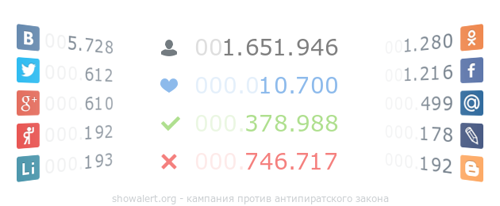
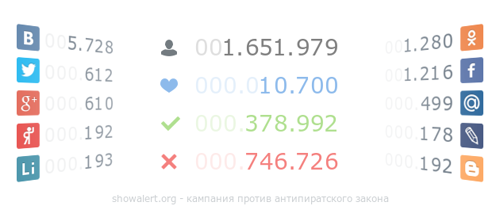
some updates

Changed region(s): [[0.6, 0.7282, 0.69, 0.8447], [0.6, 0.5534, 0.69, 0.6408], [0.6, 0.1748, 0.69, 0.2913]]

diff --git a/votes.js b/votes.js
@@ -1,1 +1,1 @@
-window.lk.votes(28407)
+window.lk.votes(28422)
